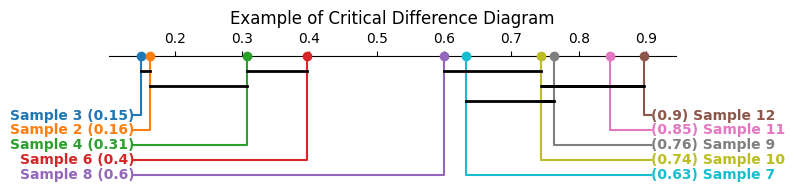
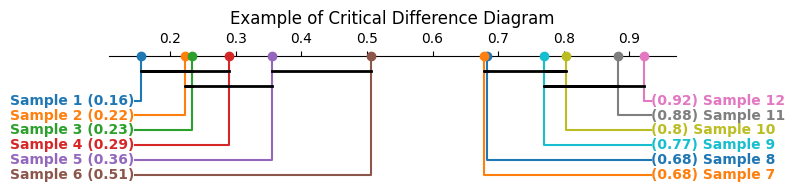
FIX maximal cliques + tests for cd diagrams
[DOCS, FIX] Improved function implementing Bron-Kerbosch algorithm to
find crossbars for critical difference diagrams. Now simple input
validation is performed and it does not enters infinite recursion
when empty adjacency matrices are received.

[DOC] Docs for the aforementioned function and variable names also
have improved readability.

[ENH] CD diagrams now plots the crossbars from the left-most position,
keeping them more organized and consistent across runs.

[FIX] Previously, if a sample was different from all the others, a
crossbar contained only it was still being created, and visible if
a marker was set in crossbar_props. `critical_differece_diagram` now
requires at least two samples to plot a crossbar.

[MAINT] Some tests for CD diagrams were implemented.

diff --git a/scikit_posthocs/_plotting.py b/scikit_posthocs/_plotting.py
@@ -257,49 +257,92 @@ def sign_plot(
 
 def _find_maximal_cliques(adj_matrix):
     """Wrapper function over the recursive Bron-Kerbosch algorithm.
-    Will be used to find points that are under the same crossbar.
+
+    Will be used to find points that are under the same crossbar in critical
+    difference diagrams.
 
     Parameters
     ----------
-    adj_matrix : DataFrame
-        Matrix containing 1 if row item and column item do NOT significantly
-        differ. Diagonal must be zeroed.
+    adj_matrix : pandas.DataFrame
+        Binary matrix with 1 if row item and column item do NOT significantly
+        differ. Values in the main diagonal are not considered.
 
     Returns
     -------
     list[set]
-        Largest fully connected subgraphs.
+        Largest fully connected subgraphs, represented as sets of indices of
+        adj_matrix.
+
+    Raises
+    ------
+    ValueError
+        If the input matrix is empty or not symmetric.
+        If the input matrix is not binary.
+
     """
-    return _bron_kerbosch(set(), set(adj_matrix.index), set(), adj_matrix)
+    if (adj_matrix.index != adj_matrix.columns).any():
+        raise ValueError("adj_matrix must be symmetric, indices do not match")
+    if not adj_matrix.isin((0, 1)).values.all():
+        raise ValueError("Input matrix must be binary")
+    if adj_matrix.empty or not (adj_matrix.T == adj_matrix).values.all():
+        raise ValueError("Input matrix must be non-empty and symmetric")
+
+    result = []
+    _bron_kerbosch(
+        current_clique=set(),
+        candidates=set(adj_matrix.index),
+        visited=set(),
+        adj_matrix=adj_matrix,
+        result=result,
+    )
+    return result
 
 
-def _bron_kerbosch(R, P, X, adj_matrix):
-    """Recursive algrithm to find the maximal fully connected subgraphs [1]_.
+def _bron_kerbosch(current_clique, candidates, visited, adj_matrix, result):
+    """Recursive algorithm to find the maximal fully connected subgraphs.
+
+    See [1]_ for more information.
 
     Parameters
     ----------
-    adj_matrix : DataFrame
-        Matrix containing 1 if row item and column item do NOT significantly
+    current_clique : set
+        A set of vertices known to be fully connected.
+    candidates : set
+        Set of vertices that could potentially be added to the clique.
+    visited : set
+        Set of vertices already known to be part of another previously explored
+        clique, that is not current_clique.
+    adj_matrix : pandas.DataFrame
+        Binary matrix with 1 if row item and column item do NOT significantly
         differ. Diagonal must be zeroed.
+    result : list
+        List where to append the maximal cliques.
 
     Returns
     -------
-    list[set]
-        Largest fully connected subgraphs.
+    None
 
-    References
+     References
     ----------
     .. [1] https://en.wikipedia.org/wiki/Bron%E2%80%93Kerbosch_algorithm
     """
-    if len(P) == 0 and len(X) == 0:
-        return [R]
-    res = []
-    for v in P.copy():
-        N = {n for n in adj_matrix.index if adj_matrix.loc[v, n]}
-        res += _bron_kerbosch(R | {v}, P & N, X & N, adj_matrix)
-        P.remove(v)
-        X.add(v)
-    return res
+    while candidates:
+        v = candidates.pop()
+        _bron_kerbosch(
+            current_clique | {v},
+            # Restrict candidate vertices to the neighbors of v
+            {n for n in candidates if adj_matrix.loc[v, n]},
+            # Restrict visited vertices to the neighbors of v
+            {n for n in visited if adj_matrix.loc[v, n]},
+            adj_matrix,
+            result,
+        )
+        visited.add(v)
+
+    # We do not need to report a clique if a children call aready did it.
+    if not visited:
+        # If this is not a terminal call, i.e. if any clique was reported.
+        result.append(current_clique)
 
 
 def critical_difference_diagram(
@@ -428,11 +471,20 @@ def critical_difference_diagram(
     ranks = Series(ranks)  # Standardize if ranks is dict
     points_left, points_right = np.array_split(ranks.sort_values(), 2)
 
+    # Sets of points under the same crossbar
+    crossbar_sets = _find_maximal_cliques(adj_matrix)
+
+    # Sort by lowest rank and filter single-valued sets
+    crossbar_sets = sorted(
+        (x for x in crossbar_sets if len(x) > 1),
+        key=lambda x: ranks[list(x)].min()
+    )
+
     # Create stacking of crossbars: for each level, try to fit the crossbar,
     # so that it does not intersect with any other in the level. If it does not
     # fit in any level, create a new level for it.
     crossbar_levels: list[list[set]] = []
-    for bar in _find_maximal_cliques(adj_matrix):
+    for bar in crossbar_sets:
         for level, bars_in_level in enumerate(crossbar_levels):
             if not any(bool(bar & bar_in_lvl) for bar_in_lvl in bars_in_level):
                 ypos = -level-1

diff --git a/tests/test_posthocs.py b/tests/test_posthocs.py
@@ -10,7 +10,7 @@ import scikit_posthocs._global as spg
 import seaborn as sb
 import numpy as np
 import matplotlib.axes as ma
-from pandas import DataFrame
+from pandas import DataFrame, Series
 if os.environ.get('DISPLAY', '') == '':
     print('No display found. Using non-interactive Agg backend')
     mpl.use('Agg')
@@ -86,6 +86,85 @@ class TestPosthocs(unittest.TestCase):
             splt.sign_plot(x.astype(np.int64), labels=False)
 
         self.assertTrue(isinstance(a, ma._axes.Axes) and isinstance(cbar, mpl.colorbar.ColorbarBase))
+
+    def test_find_maximal_cliques_input_validation(self):
+        with self.assertRaisesRegex(ValueError, ".*indices do not match"):
+            splt._find_maximal_cliques(
+                DataFrame(
+                    [[0, 1], [1, 0]],
+                    index=['a', 'b'],
+                    columns=['b', 'a'],
+                )
+            )
+        with self.assertRaises(ValueError, msg="Input matrix must be binary"):
+            splt._find_maximal_cliques(DataFrame([[0, 3], [3, 0]]))
+        with self.assertRaisesRegex(ValueError, '.*empty and symmetric'):
+            splt._find_maximal_cliques(DataFrame())
+        with self.assertRaisesRegex(ValueError, '.*empty and symmetric'):
+            splt._find_maximal_cliques(DataFrame([[1, 0], [1, 0]]))
+
+    def test_find_maximal_cliques_1x1(self):
+        adj_matrix = DataFrame([[0]], columns=['a'], index=['a'])
+        expected = [{'a'}]
+        self.assertEqual(splt._find_maximal_cliques(adj_matrix), expected)
+
+    def test_find_maximal_cliques_2x2(self):
+        adj_matrix = DataFrame(
+            [[0, 1], [1, 0]],
+            columns=['a', 'b'],
+            index=['a', 'b'],
+        )
+        expected = [{'a', 'b'}]
+        self.assertEqual(splt._find_maximal_cliques(adj_matrix), expected)
+
+    def test_find_maximal_cliques_3x3(self):
+        adj_matrix = DataFrame(
+            [[0, 0, 1],
+             [0, 0, 0],
+             [1, 0, 0]],
+            columns=['a', 'b', 'c'],
+            index=['a', 'b', 'c'],
+        )
+        expected = [{'a', 'c'}, {'b'}]
+        self.assertEqual(
+            set(map(frozenset, splt._find_maximal_cliques(adj_matrix))),
+            set(map(frozenset, expected)),
+        )
+
+    def test_find_maximal_cliques_6x6(self):
+        adj_matrix = DataFrame([
+            [0, 1, 0, 0, 0, 0],
+            [1, 0, 1, 1, 1, 0],
+            [0, 1, 0, 1, 1, 0],
+            [0, 1, 1, 0, 1, 0],
+            [0, 1, 1, 1, 0, 0],
+            [0, 0, 0, 0, 0, 0],
+        ])
+        expected = [{0, 1}, {1, 2, 3, 4}, {5}]
+        self.assertEqual(
+            set(map(frozenset, splt._find_maximal_cliques(adj_matrix))),
+            set(map(frozenset, expected)),
+        )
+
+    def test_cd_diagram_number_of_artists(self):
+        index = list('abcdef')
+        ranks = Series([2.1, 1.2, 4.5, 3.2, 5.7, 6.5], index=index)
+        sig_matrix = DataFrame(
+            [[0.08, 0.08, 0.01, 0.01, 0.01, 0.01],
+             [0.08, 0.08, 0.08, 0.08, 0.08, 0.01],
+             [0.01, 0.08, 0.08, 0.08, 0.08, 0.01],
+             [0.01, 0.08, 0.08, 0.08, 0.08, 0.01],
+             [0.01, 0.08, 0.08, 0.08, 0.08, 0.01],
+             [0.01, 0.01, 0.01, 0.01, 0.01, 0.08]],
+            index=index,
+            columns=index,
+        )
+
+        output = splt.critical_difference_diagram(ranks, sig_matrix)
+        self.assertEqual(len(output['markers']), len(ranks))
+        self.assertEqual(len(output['elbows']), len(ranks))
+        self.assertEqual(len(output['labels']), len(ranks))
+        self.assertEqual(len(output['crossbars']), 2)
 
     # Outliers tests
     def test_outliers_iqr(self):
